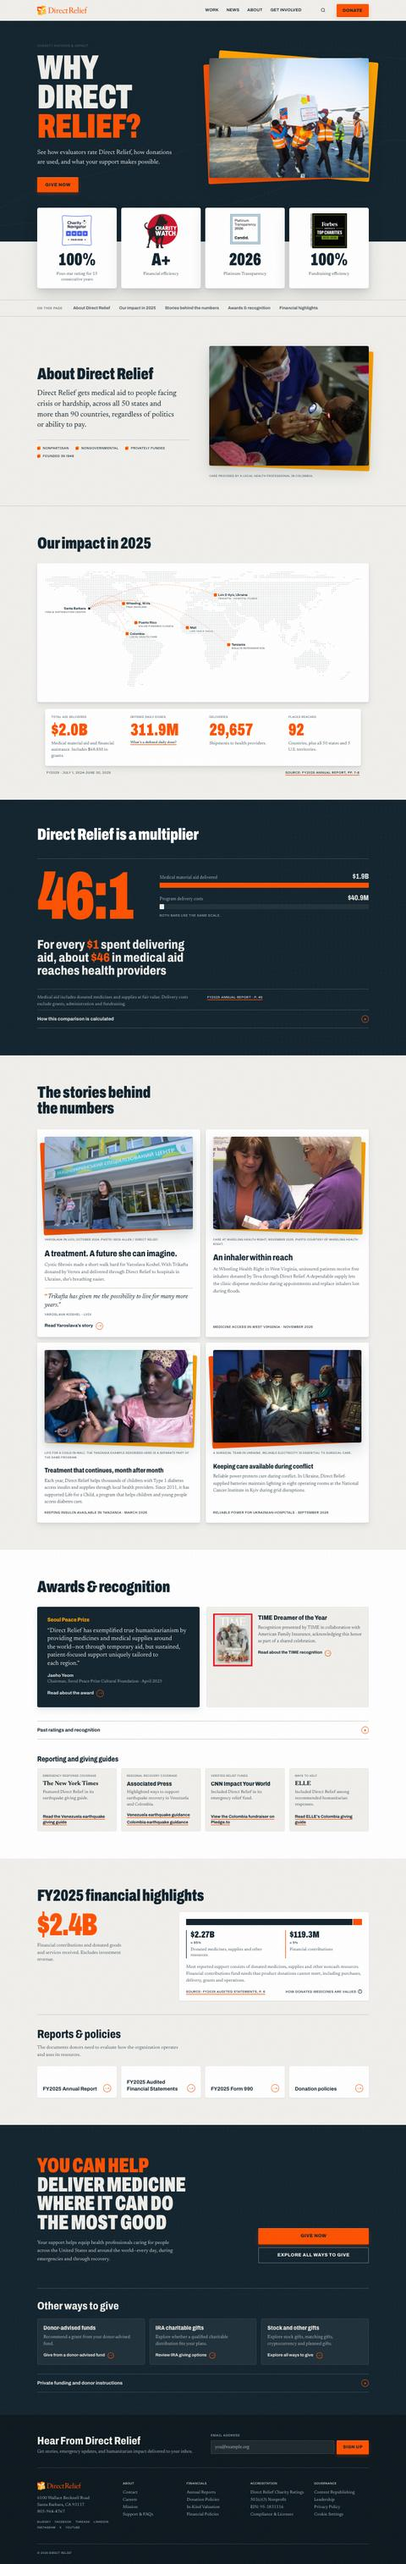
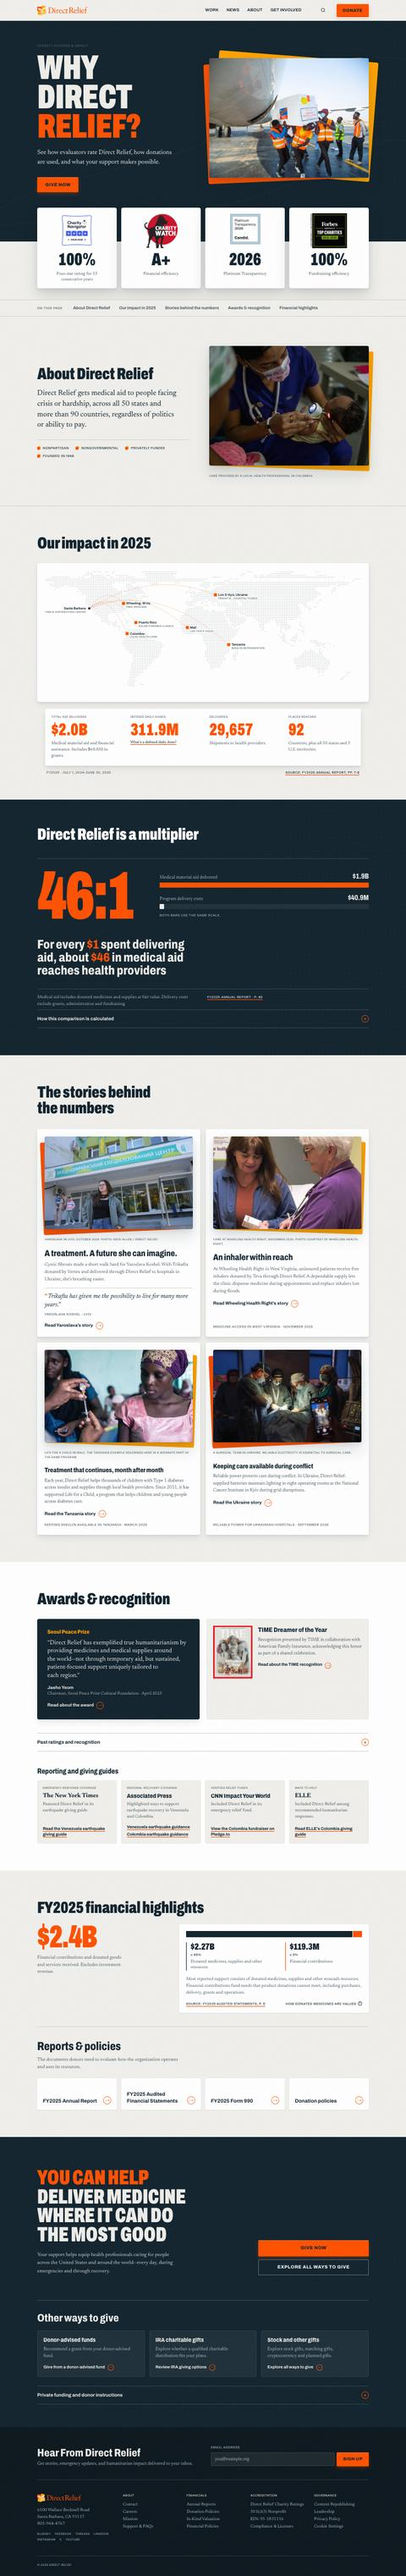
v6: add read-story arrow links to the Wheeling, Tanzania and Ukraine cards

diff --git a/v6/index.html b/v6/index.html
@@ -316,8 +316,6 @@ p{margin:0}
 .scard blockquote .q{font-style:normal;font-weight:700;color:var(--orange);margin-right:.04em}
 .scard .txt>.arrow-link{margin-top:6px;align-self:flex-start}
 .scard .src{margin-top:auto;padding-top:6px}
-.scard .src a{text-decoration:none}
-.scard .src a:hover{text-decoration:underline;text-decoration-color:var(--orange)}
 
 /* financial */
 .support{margin-top:32px;display:grid;grid-template-columns:minmax(0,.8fr) minmax(0,1.2fr);gap:24px 56px;align-items:start}
@@ -675,7 +673,8 @@ body.notes .pin{display:block}
           <div class="txt">
             <h3 id="st-w">An inhaler within reach</h3>
             <p>At Wheeling Health Right in West Virginia, uninsured patients receive free inhalers donated by Teva through Direct Relief. A dependable supply lets the clinic dispense medicine during appointments and replace inhalers lost during floods.</p>
-            <p class="label src"><a href="https://www.directrelief.org/2025/11/for-patients-in-west-virginia-a-free-clinic-and-donated-inhalers-mean-survival/">Medicine access in West Virginia · November 2025</a></p>
+            <a class="arrow-link" href="https://www.directrelief.org/2025/11/for-patients-in-west-virginia-a-free-clinic-and-donated-inhalers-mean-survival/">Read Wheeling Health Right’s story <span class="c" aria-hidden="true">→</span></a>
+            <p class="label src">Medicine access in West Virginia · November 2025</p>
           </div>
         </article>
       </div>
@@ -688,7 +687,8 @@ body.notes .pin{display:block}
           <div class="txt">
             <h3>Treatment that continues, month after month</h3>
             <p>Each year, Direct Relief helps thousands of children with Type 1 diabetes access insulin and supplies through local health providers. Since 2011, it has supported Life for a Child, a program that helps children and young people access diabetes care.</p>
-            <p class="label src"><a href="https://www.directrelief.org/2026/03/across-tanzania-medical-refrigerators-preserve-life-and-health-for-kids-with-diabetes/">Keeping insulin available in Tanzania · March 2026</a></p>
+            <a class="arrow-link" href="https://www.directrelief.org/2026/03/across-tanzania-medical-refrigerators-preserve-life-and-health-for-kids-with-diabetes/">Read the Tanzania story <span class="c" aria-hidden="true">→</span></a>
+            <p class="label src">Keeping insulin available in Tanzania · March 2026</p>
           </div>
         </article>
         <article class="scard">
@@ -699,7 +699,8 @@ body.notes .pin{display:block}
           <div class="txt">
             <h3>Keeping care available during conflict</h3>
             <p>Reliable power protects care during conflict. In Ukraine, Direct Relief-supplied batteries maintain lighting in eight operating rooms at the National Cancer Institute in Kyiv during grid disruptions.</p>
-            <p class="label src"><a href="https://www.directrelief.org/2026/09/humanitarian-aid-for-ukraine-tops-2-5-billion/">Reliable power for Ukrainian hospitals · September 2026</a></p>
+            <a class="arrow-link" href="https://www.directrelief.org/2026/09/humanitarian-aid-for-ukraine-tops-2-5-billion/">Read the Ukraine story <span class="c" aria-hidden="true">→</span></a>
+            <p class="label src">Reliable power for Ukrainian hospitals · September 2026</p>
           </div>
         </article>
       </div>
